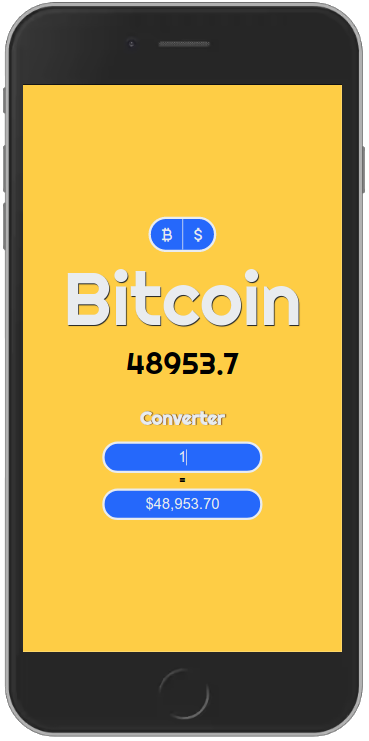
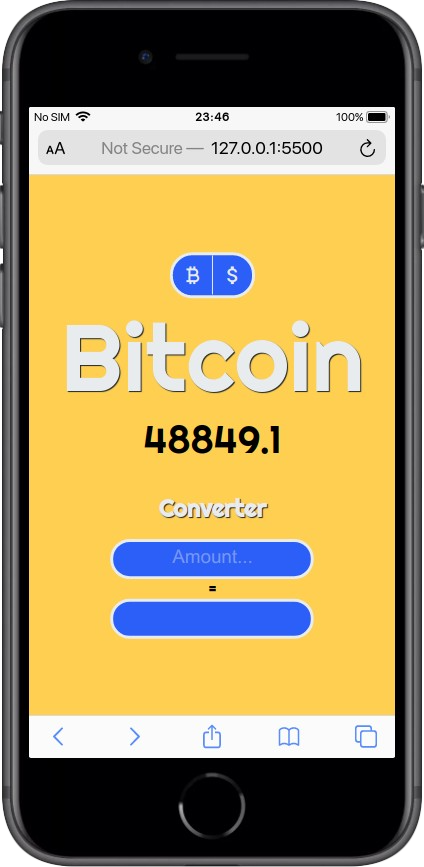
small adjust in layout

diff --git a/index.html b/index.html
@@ -37,7 +37,7 @@
             <div id="converter">
                 <h2>Converter</h2>
                 <div id="fields">
-                    <div><input id="user-value" class="option" type="number"></div> <span>=</span>
+                    <div><input id="user-value" class="option" type="number" placeholder="Amount..."></div> <span>=</span>
                     <div><input readonly id="result" class="option" type="text"></div>
                 </div>
             </div>

diff --git a/assets/css/style.css b/assets/css/style.css
@@ -15,6 +15,26 @@
   font-family: 'Righteous', cursive;
 }
 
+::-webkit-input-placeholder {
+  color: #e9ecef;
+  opacity: 0.4;
+}
+
+:-ms-input-placeholder {
+  color: #e9ecef;
+  opacity: 0.4;
+}
+
+::-ms-input-placeholder {
+  color: #e9ecef;
+  opacity: 0.4;
+}
+
+::placeholder {
+  color: #e9ecef;
+  opacity: 0.4;
+}
+
 #content {
   display: -webkit-box;
   display: -ms-flexbox;

diff --git a/assets/css/_base.scss b/assets/css/_base.scss
@@ -20,3 +20,8 @@ $fourth-color: #e9ecef;
     justify-content: center;
     align-items: center;
 }
+
+::placeholder {
+    color: $fourth-color;
+    opacity: 0.4;
+}
